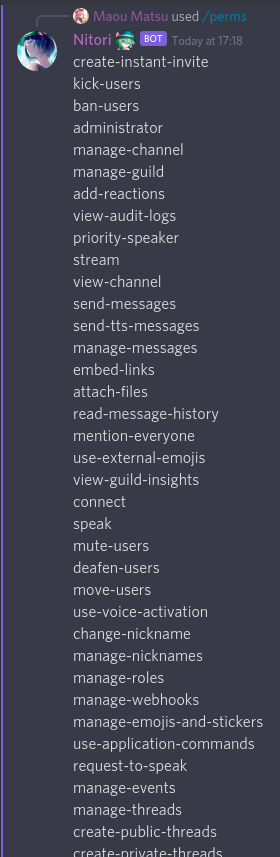
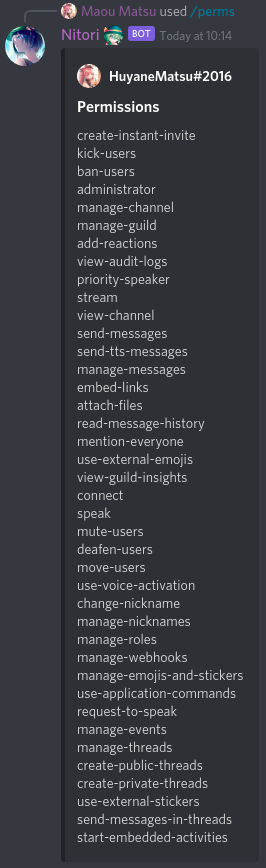
fix more bugs

Changed region(s): [[0.0, 0.0, 0.9323, 1.0]]

diff --git a/hata/ext/slash/responding.py b/hata/ext/slash/responding.py
@@ -85,6 +85,7 @@ async def get_request_coroutines(client, interaction_event, show_for_invoking_us
             
             elif interaction_event.is_deferred():
                 yield client.interaction_followup_message_create(interaction_event, response)
+            
             elif interaction_event.is_responded():
                 yield client.interaction_followup_message_create(
                     interaction_event,
@@ -545,7 +546,7 @@ class InteractionResponse:
 
 
 def abort(content=..., *, embed=..., file=..., allowed_mentions=..., components=..., tts=...,
-        show_for_invoking_user_only=..., message=..., event=None):
+        show_for_invoking_user_only=True, message=..., event=None):
     """
     Aborts the slash response with sending the passed parameters as a response.
     
@@ -577,6 +578,8 @@ def abort(content=..., *, embed=..., file=..., allowed_mentions=..., components=
         Whether the sent message should only be shown to the invoking user.
         
         If given as `True`, only the message's content and embeds and components will be processed by Discord.
+        
+        Defaults to `True`.
     
     Raises
     ------
@@ -590,6 +593,7 @@ def abort(content=..., *, embed=..., file=..., allowed_mentions=..., components=
     response = InteractionResponse(content, embed=embed, file=file, allowed_mentions=allowed_mentions,
         components=components, tts=tts, show_for_invoking_user_only=show_for_invoking_user_only, message=message,
         event=event)
+    
     response._is_abort = True
     raise InteractionAbortedError(response)
 

diff --git a/hata/discord/interaction/event_types.py b/hata/discord/interaction/event_types.py
@@ -598,7 +598,7 @@ class ComponentInteraction:
         custom_id = data.get('custom_id', None)
         
         # type
-        type_ = ComponentType.get(data['type'])
+        type_ = ComponentType.get(data['component_type'])
         
         # options
         option_datas = data.get('values', None)

diff --git a/docs/topics/slash.md b/docs/topics/slash.md
@@ -347,6 +347,10 @@ async def guild_icon(event,
     return Embed(f'{guild.name}\'s {name}', color=color, url=url).add_image(url)
 ```
 
+![](assets/slash_0003.png)
+
+![](assets/slash_0004.png)
+
 If you find defining choice parameters inside of the "function parameter definition" too confusing, consider creating
 a variable and annotate that instead.
 
@@ -394,6 +398,8 @@ async def roll(
     
     return str(amount)
 ```
+
+![](assets/slash_0005.png)
 
 ### Auto completed parameters
 
@@ -458,6 +464,10 @@ async def cookie(client, event,
     return Embed(description=f'{source_user:f} just gifted a cookie to {target_user:f} !')
 ```
 
+![](assets/slash_0006.png)
+
+![](assets/slash_0007.png)
+
 ### Decorator parameters
 
 `client.interactions` has no requires parameters, so can be used just as `@client.interactions` decorator, however in
@@ -479,8 +489,7 @@ become "non-global". More about them in the [Non-global](#non-global-commands) s
 
 Whether the source message should be shown only for the invoker user. Defaults to `False`.
 
-This is a perfect time to change up our `/perms` command. Discord ignores everything except `content`, so we need to
-change up the command as well, to return just a simple string.
+This is a perfect time to change up our `/perms` command.
 
 ```py
 from hata import Embed
@@ -490,12 +499,15 @@ async def perms(event):
     """Shows your permissions."""
     user_permissions = event.user_permissions
     if user_permissions:
-        content = '\n'.join(permission_name.replace('_', '-') for permission_name in user_permissions)
+        description = '\n'.join(permission_name.replace('_', '-') for permission_name in user_permissions)
     else:
-        content = '*none*'
+        description = '*none*'
     
-    return content
+    user = event.user
+    return Embed('Permissions', description).add_author(user.avatar_url, user.full_name)
 ```
+
+![](assets/slash_0008.png)
 
 ##### name
 
@@ -518,6 +530,8 @@ async def idtotime(
     return f'{time:{DATETIME_FORMAT_CODE}}\n{elapsed_time(time)} ago'
 ```
 
+![](assets/slash_0009.png)
+
 You can resolve name conflicts in an other way as well. Trailing `_` characters are ignored.
 
 ```py
@@ -525,8 +539,8 @@ from hata import id_to_datetime, DATETIME_FORMAT_CODE, elapsed_time
 
 @Nitori.interactions(guild=TEST_GUILD)
 async def id_to_datetime_(
-        snowflake : ('int', 'Id please!'),
-            ):
+    snowflake : ('int', 'Id please!'),
+):
     """Converts the given Discord snowflake to time."""
     time = id_to_datetime(snowflake)
     return f'{time:{DATETIME_FORMAT_CODE}}\n{elapsed_time(time)} ago'
@@ -545,8 +559,8 @@ class Action:
         self.embed_color = embed_color
     
     async def __call__(self, client, event,
-            user : ('user', 'Who?') = None,
-                ):
+        user : ('user', 'Who?') = None,
+    ):
         if user is None:
             source_user = client
             target_user = event.user
@@ -566,6 +580,11 @@ for action_name, embed_color in (('pat', 0x325b34), ('hug', 0xa4b51b), ('lick', 
 # Cleanup
 del action_name, embed_color
 ```
+
+
+![](assets/slash_0010.png)
+
+![](assets/slash_0011.png)
 
 ##### delete_on_unload
 
@@ -594,13 +613,28 @@ from hata.ext.slash import SlashResponse
 
 @Nitori.interactions(guild=TEST_GUILD)
 async def repeat(
-        text : ('str', 'The content to repeat')
-            ):
+    text : ('str', 'The content to repeat')
+):
     """What should I exactly repeat?"""
     if not text:
         text = 'nothing to repeat'
     
     return SlashResponse(text, allowed_mentions=None)
+```
+
+
+![](assets/slash_0012.png)
+
+![](assets/slash_0013.png)
+
+When checking the message's payload, it is indeed visible, that Koishi was not pinged.
+
+```py
+...
+"mention_everyone": false,
+"mention_roles": [],
+"mentions": [],
+...
 ```
 
 ##### Responding multiple times
@@ -631,6 +665,8 @@ async def improvise():
     yield choice(IMPROVISATION_CHOICES)
 ```
 
+![](assets/slash_0014.png)
+
 > Python limitation, you cannot `return` any value if you use `yield` inside of an `async def`.
 
 ##### Acknowledge the interaction event
@@ -649,6 +685,8 @@ async def ping():
     
     yield f'{delay:.0f} ms'
 ```
+
+![](assets/slash_0015.gif)
 
 Acknowledging can be useful if you do an additional request to an other site, because the event need to be acknowledged
 within 3 seconds to send followup messages. If the event is acknowledged, followup messages can be sent within an
@@ -696,6 +734,8 @@ async def collect_reactions():
     else:
         yield 'No reactions were collected.'
 ```
+
+![](assets/slash_0016.png)
 
 ##### Giving away control flow
 
@@ -751,6 +791,8 @@ async def why(client):
 
 Both works completely fine.
 
+![](assets/slash_0017.gif)
+
 ##### Aborting command
 
 Commands may be aborted using the `abort` function. It leaves from the command's execution and sends the passed
@@ -799,6 +841,10 @@ async def is_banned(client, event,
     yield embed
 ```
 
+![](assets/slash_0018.png)
+
+![](assets/slash_0019.png)
+
 ##### Changing parameter name
 
 Familiarly to the `name` interaction parameter mentioned [above](#name), the tailing `_` characters are removed from
@@ -816,6 +862,8 @@ async def user_id(event,
     
     return str(user_id)
 ```
+
+![](assets/slash_0020.png)
 
 ##### Set command permissions
 
@@ -887,6 +935,8 @@ async def latest_users(event):
     return SlashResponse(embed=embed, allowed_mentions=None)
 ```
 
+![](assets/slash_0021.png)
+
 ## Non-global commands
 
 The slash extension supports non-global commands, which are neither global nor normal guild bound commands. These
@@ -915,8 +965,8 @@ async def ping():
 
 @Nitori.interactions(is_global=True)
 async def enable_ping(client, event,
-        allow: ('bool', 'Enable?')=True,
-            ):
+    allow: ('bool', 'Enable?')=True,
+):
     """Enables the ping command in your guild."""
     guild = event.guild
     if guild is None:
@@ -1019,12 +1069,14 @@ You can also set default sub-command, which is used if a sub command is selected
 > Sub-commands and default commands are not yet fully supported by Discord.
 
 ```py
-@SCARLET.interactions(is_default=True, show_for_invoking_user_only=True)
+@SCARLET.interactions(is_default=True)
 async def devil(client, event):
     """Flandre & Remilia!"""
     yield
-    return await get_image_embed(client, 'flandre_scarlet+remilia_scarlet', 'Scarlet Flandre & Remilia', 0xa12a2a)
+    yield await get_image_embed(client, 'flandre_scarlet+remilia_scarlet', 'Scarlet Flandre & Remilia', 0xa12a2a)
 ```
+
+
 
 ## Manual Responding
 

diff --git a/changelog.md b/changelog.md
@@ -42,7 +42,7 @@
 
 - Added to `setup.py`.
 
-##### ext.asycnio
+##### ext.asyncio
 
 - Add `start_unix_server`. (Forest#2913)
 - Add `Queue.put`. (Forest#2913)
@@ -51,6 +51,10 @@
 
 - `Client.multi_client_message_delete_sequence` was not calling `Message.is_deletable` when getting messages from
 cache.
+
+##### ext.slash
+
+- `abort` was not defining `đhow_for_invoking_user_only` by default. (When was this bug made?)
 
 #### Renames, Deprecation & Removals
 
